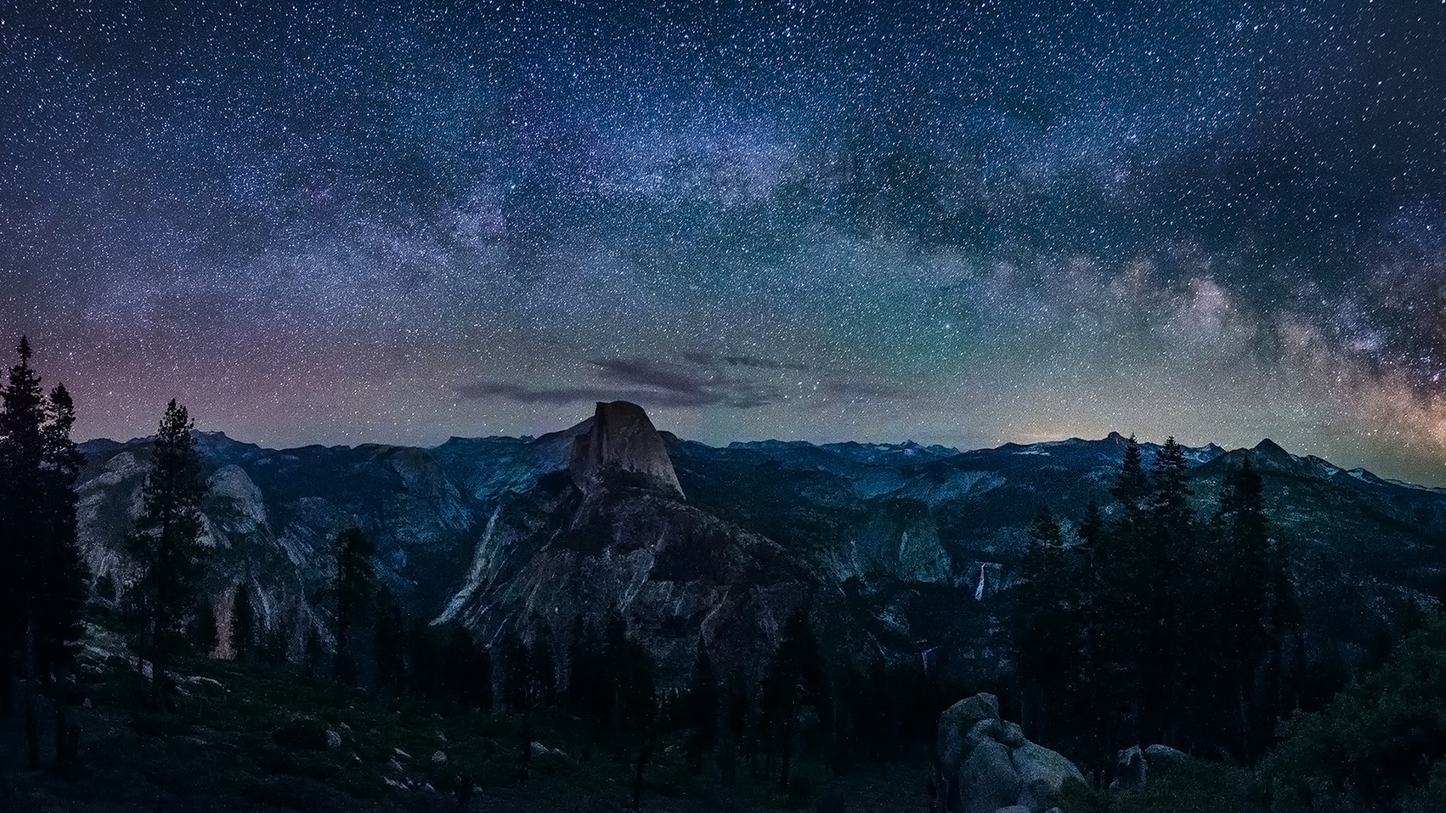
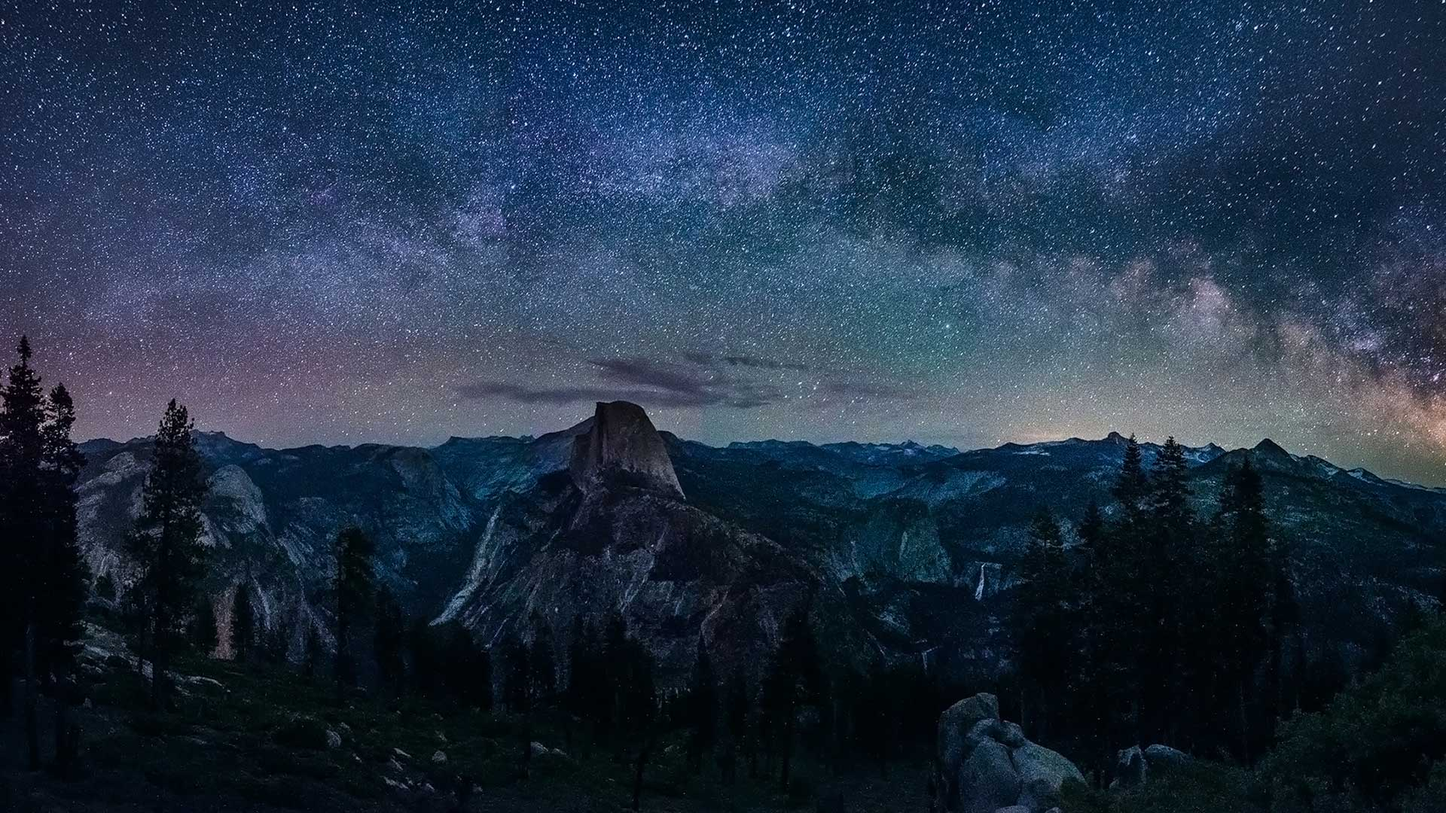
图片压缩

diff --git a/static/socket/js/socket.js b/static/socket/js/socket.js
@@ -52,7 +52,7 @@ $(function () {
             }
         })
     //生成 soket实例
-    var socket = io.connect("ws://127.0.0.1:8099");
+    var socket = io.connect("ws://39.107.236.45:8099");
     //通知服务器有用户登录
     if (userInfo && userInfo.userName) {
         socket.emit('login', userInfo);
